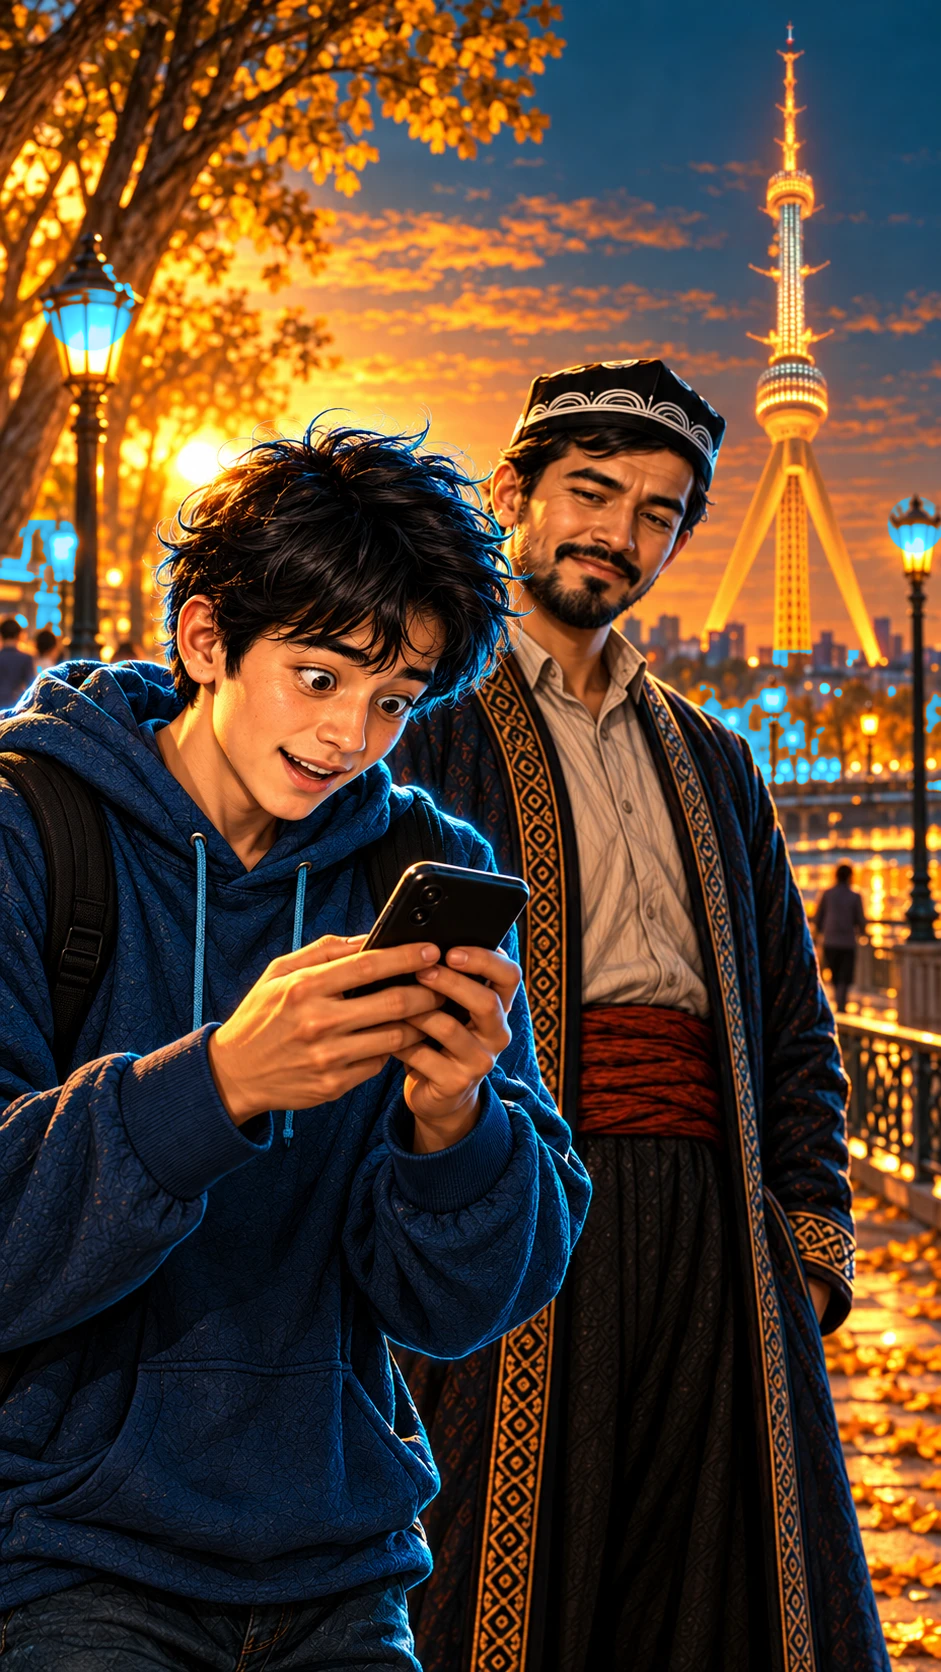
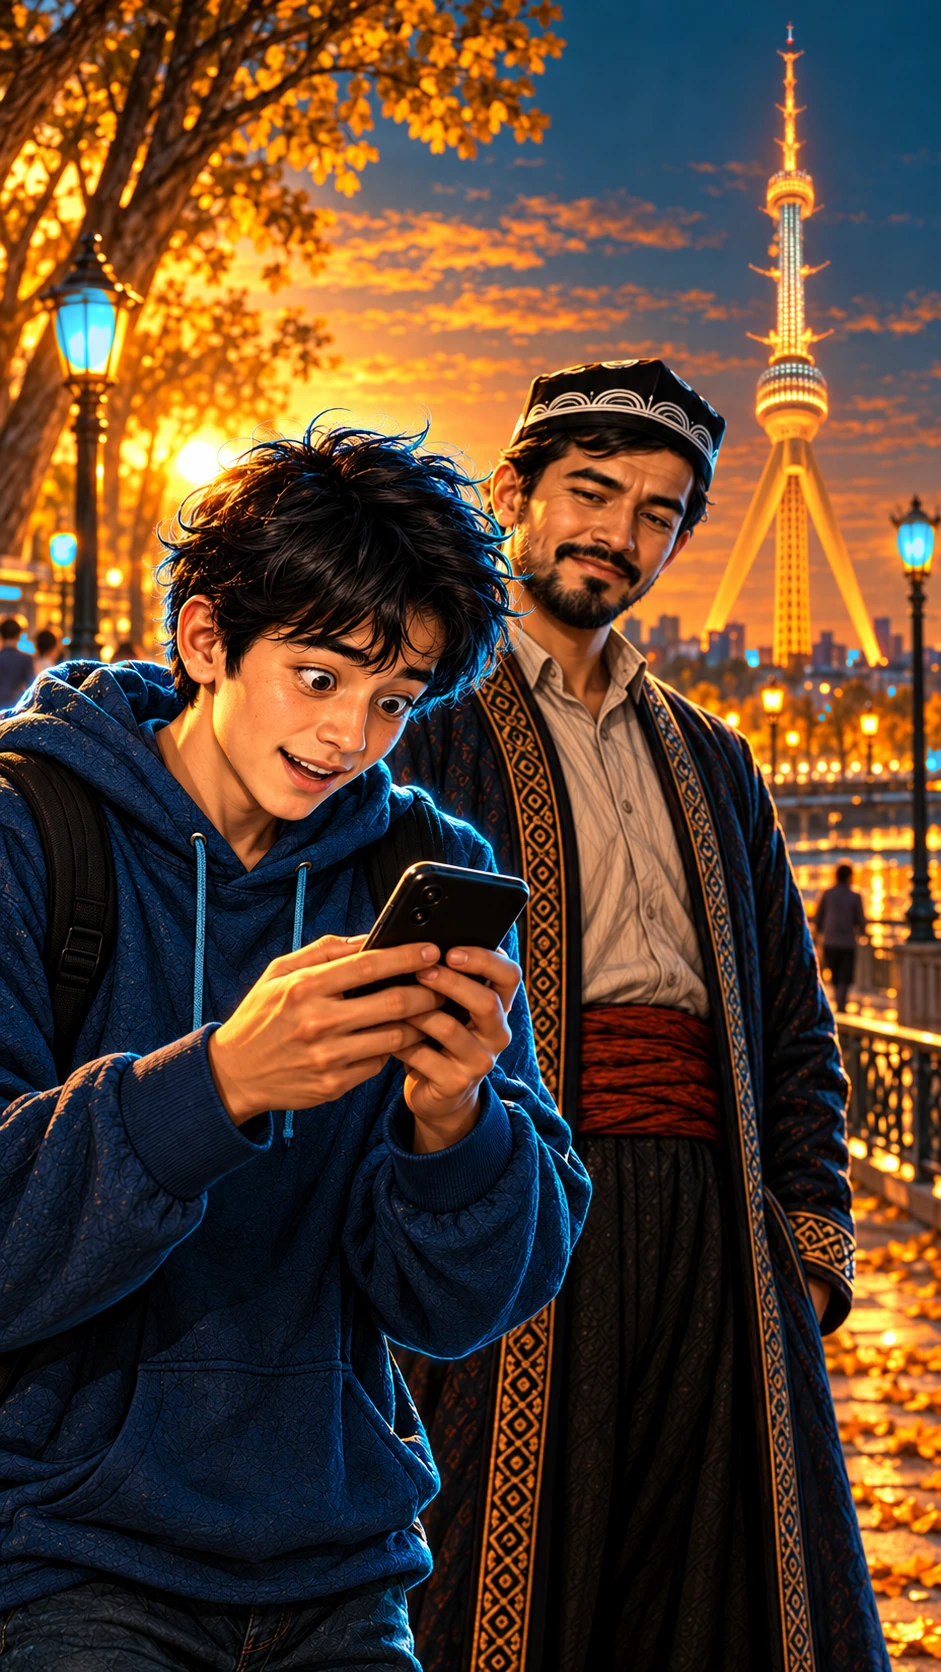
eskirish: fonus shishalari aniq o'lchandi, faqat ichi ko'k (3-rasmda siljigan edi) (#440)
Claude-Session: https://claude.ai/code/session_01RL3x4tL7VqVmiGwddJSE5k

diff --git a/video/eskirish/fonus.py b/video/eskirish/fonus.py
@@ -4,7 +4,7 @@
 import argparse, cv2, numpy as np
 p = argparse.ArgumentParser(); p.add_argument("inp"); p.add_argument("out"); p.add_argument("--show")
 p.add_argument("--skip", default=""); p.add_argument("--only", default=""); p.add_argument("--vmin", type=int, default=215)
-p.add_argument("--roi", action="append", default=[]); p.add_argument("--lamp", action="append", default=[], help="cx,cy,r: shu doira ichidagi yorug' joy bo'yaladi (avtomatik qidiruv o'chadi)"); p.add_argument("--amin", type=int, default=25); p.add_argument("--amax", type=int, default=9000)
+p.add_argument("--roi", action="append", default=[]); p.add_argument("--glass", action="append", default=[], help="cx,cy,hw,hh: fonus shishasi (ellips), aniq o'lchangan"); p.add_argument("--lamp", action="append", default=[], help="cx,cy,r: shu doira ichidagi yorug' joy bo'yaladi (avtomatik qidiruv o'chadi)"); p.add_argument("--amin", type=int, default=25); p.add_argument("--amax", type=int, default=9000)
 a = p.parse_args()
 img = cv2.imread(a.inp); H, W = img.shape[:2]; f = img.astype(np.float32)
 hsv = cv2.cvtColor(img, cv2.COLOR_BGR2HSV)
@@ -22,20 +22,39 @@ cand = []
 for k in range(1, n):
     x, y, w, h, ar = st[k]
     if not (a.amin <= ar <= a.amax): continue
-    if ar / (w * h) < 0.3 or not (0.3 < h / max(w, 1) < 4): continue
+    if ar / (w * h) < 0.5 or not (0.5 < h / max(w, 1) < 2.2) or ar > 500: continue   # faqat ixcham mayda chiroq nuqtalari (dog' emas)
     cand.append(k)
 # Egasi (2026-10-28, 2-urinish): «bittasini qil, bittasini qilma, faqat fonus ichi bo'lsin, shuvab tashlama»:
 # fonuslar navbatma-navbat (1-si bo'yaladi, 2-si yo'q ...), faqat fonus ichidagi yorug' shisha, atrofga nur yoyilmaydi.
 keep = np.zeros((H, W), np.float32); sheet = img.copy()
 V = hsv[..., 2].astype(np.float32) / 255
-if a.lamp and not a.roi: cand = []
-for i, q in enumerate(a.lamp):                       # qo'lda berilganlar: tartib bo'yicha 0, 2, 4 ... bo'yaladi
+if (a.lamp or a.glass) and not a.roi: cand = []
+for i, q in enumerate(a.lamp):                       # qo'lda berilgan taxminiy joy atrofida aniq shisha qidiriladi
     cx, cy, r = map(int, q.split(","))
-    use = True   # egasi (2026-10-28, 3): katta fonuslar hammasi ko'k, navbatma-navbat faqat zich qatorlarda
-    cv2.circle(sheet, (cx, cy), r, (0, 255, 0) if use else (0, 0, 255), 2)
-    if use:
-        c = np.zeros((H, W), np.float32); cv2.circle(c, (cx, cy), int(r * 0.8), 1, -1)
-        keep = np.maximum(keep, c * np.clip((V - 0.62) / 0.25, 0, 1))
+    R = int(r * 1.8); x0, y0, x1, y1 = max(0, cx - R), max(0, cy - R), min(W, cx + R), min(H, cy + R)
+    win = hsv[y0:y1, x0:x1]
+    best, bd = None, 1e9
+    for thr in (235, 220, 205, 190):                   # eng yorqin, ixcham, issiq bo'lak — fonus shishasi
+        bm = ((win[..., 2] >= thr) & (win[..., 0] < 40)).astype(np.uint8)
+        nn, ll, ss, cc = cv2.connectedComponentsWithStats(bm)
+        for k in range(1, nn):
+            bx, by, bw, bh, ba = ss[k]
+            if ba < 0.04 * r * r or bw > 2.2 * r or bh > 2.6 * r or ba / (bw * bh) < 0.35: continue
+            d = np.hypot(cc[k][0] + x0 - cx, cc[k][1] + y0 - cy) - 0.02 * ba
+            if d < bd: bd, best = d, (ll == k)
+        if best is not None: break
+    if best is None:
+        cv2.circle(sheet, (cx, cy), r, (0, 0, 255), 2); continue
+    m1 = np.zeros((H, W), np.uint8); m1[y0:y1, x0:x1] = best.astype(np.uint8)
+    cs, _ = cv2.findContours(m1, cv2.RETR_EXTERNAL, cv2.CHAIN_APPROX_SIMPLE); cv2.drawContours(m1, cs, -1, 1, -1)   # teshiklarni to'ldirish
+    keep = np.maximum(keep, m1.astype(np.float32) * np.clip((V - 0.45) / 0.3, 0.35, 1))
+    cv2.drawContours(sheet, cs, -1, (0, 255, 0), 2)
+for q in a.glass:                                    # aniq o'lchangan shisha: faqat ellips ichidagi yorug' joy
+    cx, cy, hw, hh = map(int, q.split(","))
+    e1 = np.zeros((H, W), np.float32); cv2.ellipse(e1, (cx, cy), (hw, hh), 0, 0, 360, 1, -1)
+    e1 = cv2.GaussianBlur(e1, (5, 5), 0)
+    keep = np.maximum(keep, e1 * np.clip((V - 0.4) / 0.3, 0.3, 1))
+    cv2.ellipse(sheet, (cx, cy), (hw, hh), 0, 0, 360, (0, 255, 0), 2)
 cand = sorted(cand, key=lambda k: (st[k][0], st[k][1]))   # uzoqdagilar chapdan o'ngga, navbatma-navbat
 for i, k in enumerate(cand, 1):
     x, y, w, h, ar = st[k]

diff --git a/video/eskirish/README.md b/video/eskirish/README.md
@@ -24,7 +24,7 @@
 | 15 | `img/s15.png` | ✅ | Usta telefonni ko'rsatadi: bo'sh chat pufakchalari + yashil batareya (tekshirilgandan keyin — mos); qo'li Diyor yelkasida; Diyor bosh barmog'ini ko'taradi, jilmayadi. Diyor sochi to'lqinliroq, moviy nuri yo'q (kichik farq). Yozuv yo'q. Tepada osmon — @sahiychishopbot shu yerga |
 | 12 | `img/s12.png` | ✅ | Hazil: Diyor telefonni ko'kragiga bosib, ko'zlarini yumib jilmayadi; Usta kulib barmog'i bilan ko'rsatadi. Yuzlar namunaga mos, Diyor sochi qora, ingichka moviy nur bor; qo'llar to'g'ri; teleminora namunadek; yozuv yo'q |
 | 14 | `img/s14.png` | ✅ | Usta yaqin plan, kameraga dono va iliq qaraydi; yuz 13-rasm va namunaga mos; orqada teleminora va kanal; yozuv yo'q |
-- Fonuslar (egasi, 2026-10-28, 3-urinish): katta fonuslar hammasi ko'k, zich qatorlarda navbatma-navbat; faqat shishasi ko'k neon, atrofga nur yoyilmaydi (`fonus.py`, `fonus_hammasi.sh`; asl rasmlar `img/asl/`). Veo va rasm promptlarida ham «street lamps glow cool neon blue».
+- Fonuslar (egasi, 2026-10-28, 4-urinish): har fonus shishasi aniq o'lchangan (--glass), faqat shisha ichi ko'k neon; uzoqdagi zich qatorlarda navbatma-navbat, atrofga nur yoyilmaydi (`fonus.py`, `fonus_hammasi.sh`; asl rasmlar `img/asl/`). Veo va rasm promptlarida ham «street lamps glow cool neon blue».
 
 ## Kliplar
 | # | Fayl | Holat | Olinadigan qism | Izoh |
